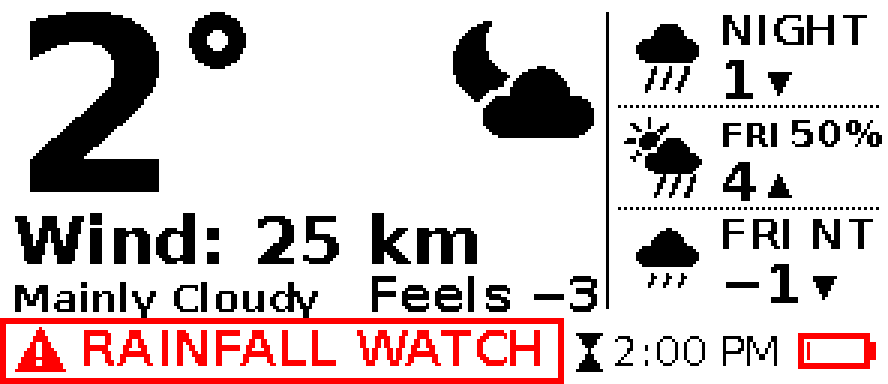
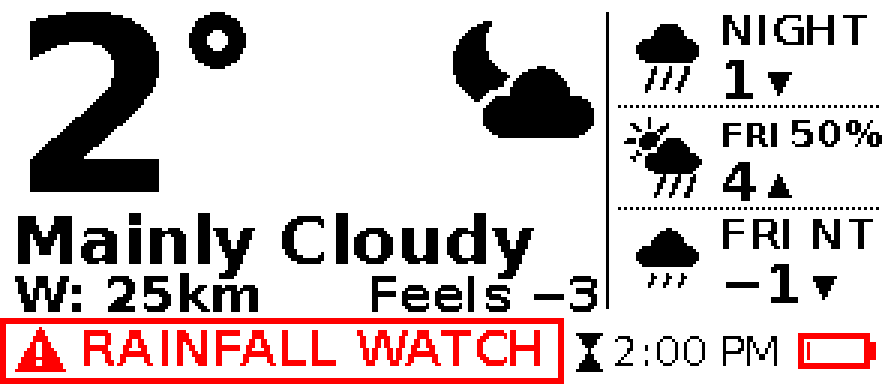
Condition directly under temperature; wind as 'W: 13km' beside feels-like

Changed region(s): [[0.0, 0.5312, 0.6081, 0.8438]]

diff --git a/host/wxd/render.py b/host/wxd/render.py
@@ -337,12 +337,12 @@ def _draw_big_temp(ctx: _Ctx, x: int, top: int, max_w: int, temp: float | None, 
 
 
 def _wind_text(cur: Current) -> str:
-    """Sustained wind only, e.g. 'Wind: 9 km' (direction and gusts intentionally omitted)."""
+    """Sustained wind only, e.g. 'W: 13km' (direction/gusts omitted, "/h" implied: user preference)."""
     if cur.wind_kph is None:
-        return "Wind: --"
+        return "W: --"
     if cur.wind_kph == 0:
-        return "Wind: Calm"
-    return f"Wind: {cur.wind_kph} km"  # "/h" implied (user preference)
+        return "W: calm"
+    return f"W: {cur.wind_kph}km"
 
 
 def _draw_triangle(ctx: _Ctx, x: int, y: int, w: int, up: bool, fill: int = BLACK) -> None:
@@ -477,10 +477,10 @@ def render(
     _paste_icon(ctx, cur.icon, icon_x, 2, ICON_BIG)
     _draw_big_temp(ctx, 4, 4, icon_x - 6, cur.temp_c)
 
-    # wind row
-    ctx.fit_text(4, 88, _wind_text(cur), True, left_w - 4, 22, 16)
+    # condition row (directly under the temperature)
+    ctx.fit_text(4, 88, cur.condition or "", True, left_w - 4, 22, 14)
 
-    # condition + feels row
+    # wind + feels row
     feels = cur.feels_like_c
     show_feels = feels is not None and (cur.temp_c is None or round(feels) != round(cur.temp_c))
     fw = 0.0
@@ -488,7 +488,7 @@ def render(
         ff = _font(cfg.font_bold, 16)
         ft = f"Feels {_fmt_t(feels)}"
         fw = ctx.text(left_w, 104, ft, ff, RED if (feels <= -30 or feels >= 35) else BLACK, "r")
-    ctx.fit_text(4, 104, cur.condition or "", True, left_w - 4 - (fw + 10 if show_feels else 0), 17, 13)
+    ctx.fit_text(4, 104, _wind_text(cur), True, left_w - 4 - (fw + 10 if show_feels else 0), 17, 13)
 
     # divider + forecast
     if has_fc:

diff --git a/docs/layout.md b/docs/layout.md
@@ -12,8 +12,8 @@ Renderer: `host/wxd/render.py`. Previews: `python -m wxd.render` (writes `host/o
 |---|---|---|
 | Temperature | x 4.., y 4..64 | DejaVu Sans Bold, auto-shrunk (max digit height 60 px, about 13.6 mm). Minus bar and degree ring are drawn, not glyphs. |
 | Current icon | x 202..258, y 2..58 | 56 px procedural icon |
-| Wind | baseline y 88 | Bold 22 px (cap about 16 px, 3.7 mm): sustained speed only, `Wind: 9 km` ("/h" implied; `Wind: Calm`, `Wind: --`). Direction and gusts are deliberately omitted (user preference, 2026-11-05). Shrinks to 16 px if too wide; `Wind: 100 km` fits at 22 px. |
-| Condition | baseline y 104, x 4.. | Bold 17 px, shrinks to 13 px to fit beside "Feels", then ellipsis |
+| Condition | baseline y 88 | Bold 22 px, directly under the temperature; shrinks to 14 px, then ellipsis. |
+| Wind + feels | baseline y 104 | Left: `W: 13km` bold 17 px (sustained only, "/h" implied; `W: calm`, `W: --`), shrinks to 13 px. Right: `Feels -6` bold 16 px. |
 | Feels-like | baseline y 104, right-aligned to x 200 | Bold 16 px |
 | Forecast column | x 206..296, 3 rows of 34 px, divider at x 202 | 28 px icon, name bold 14 px (shrinks to 10), temp bold 18 px with triangle (up = high, down = low), POP in bold 13 px on the name line when >= 40 % |
 | Footer | y 106..128 | Alert banner (left), else today's forecast high/low as `H: 6° | L: 3°` (bold 18 px, shrinks to 13 px to fit; `--` if missing); observation time, 12-hour `9:30 AM` (regular 14 px, drawn first; the left element ends 4 px before it), hourglass if stale, battery 24x12 |
